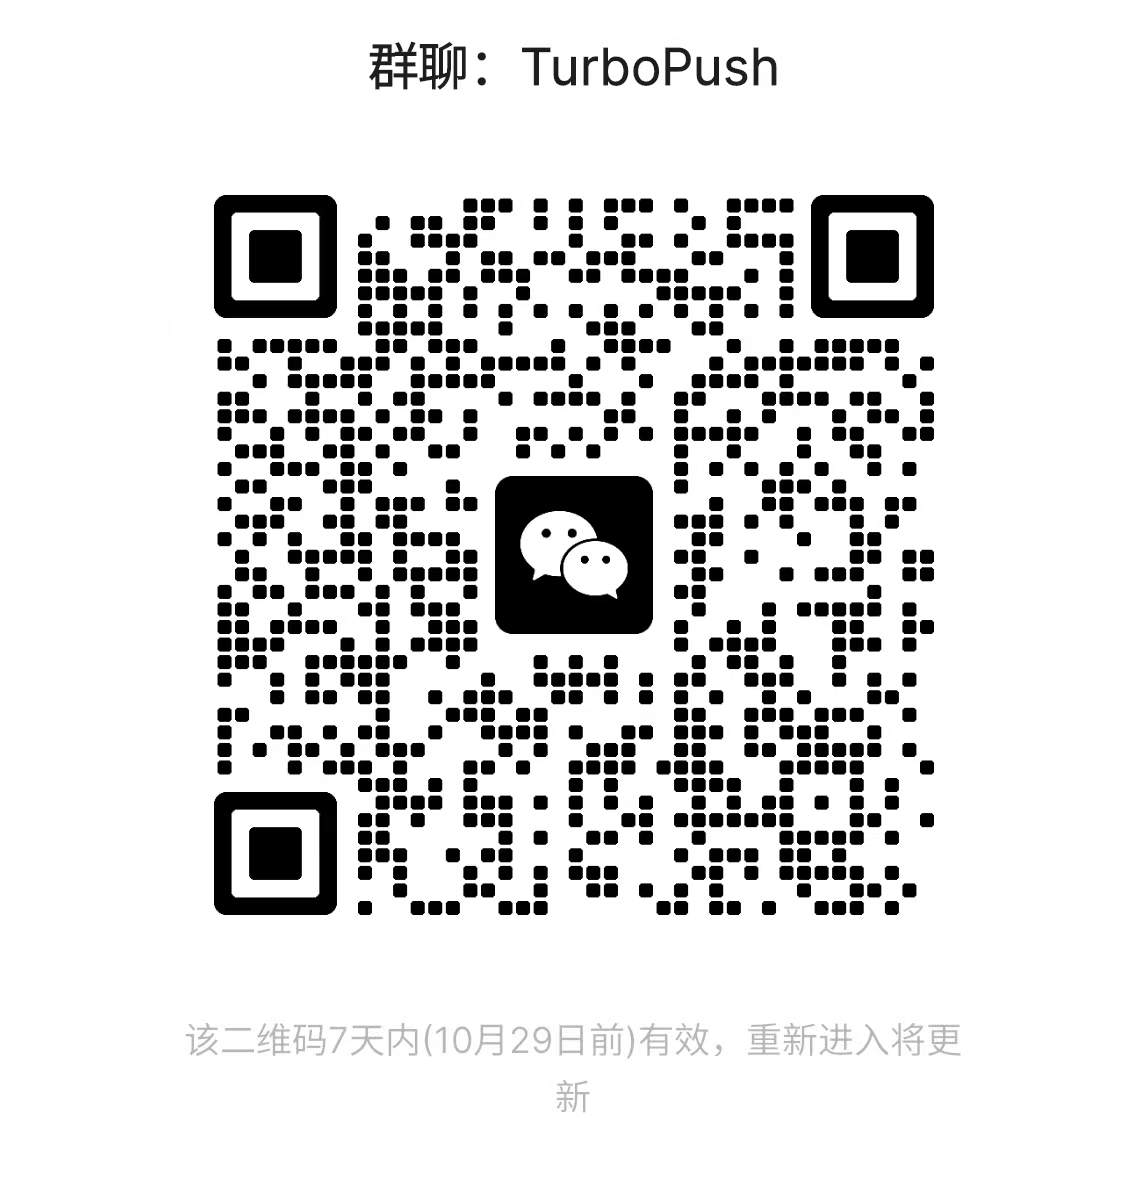
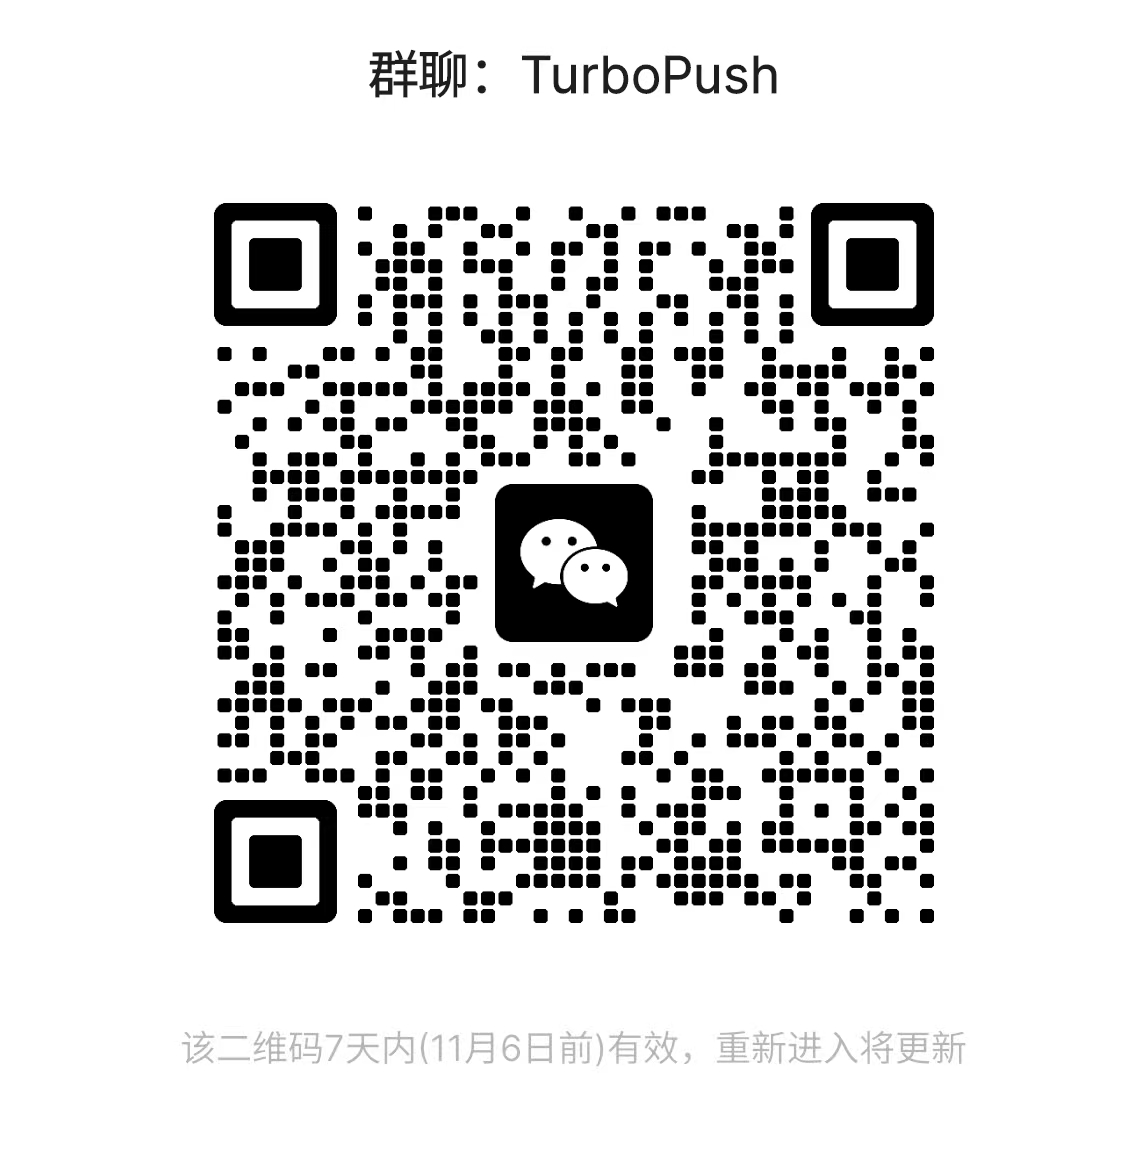
更新wx群二维码

diff --git a/README.md b/README.md
@@ -145,16 +145,6 @@ npm run format
 npm run seo:check
 ```
 
-## 🤝 贡献指南
-
-我们欢迎所有形式的贡献！
-
-1. Fork 本仓库
-2. 创建特性分支 (`git checkout -b feature/AmazingFeature`)
-3. 提交更改 (`git commit -m 'Add some AmazingFeature'`)
-4. 推送到分支 (`git push origin feature/AmazingFeature`)
-5. 开启 Pull Request
-
 ## 📄 开源协议
 
 本项目基于 [MIT License](LICENSE) 开源协议。
